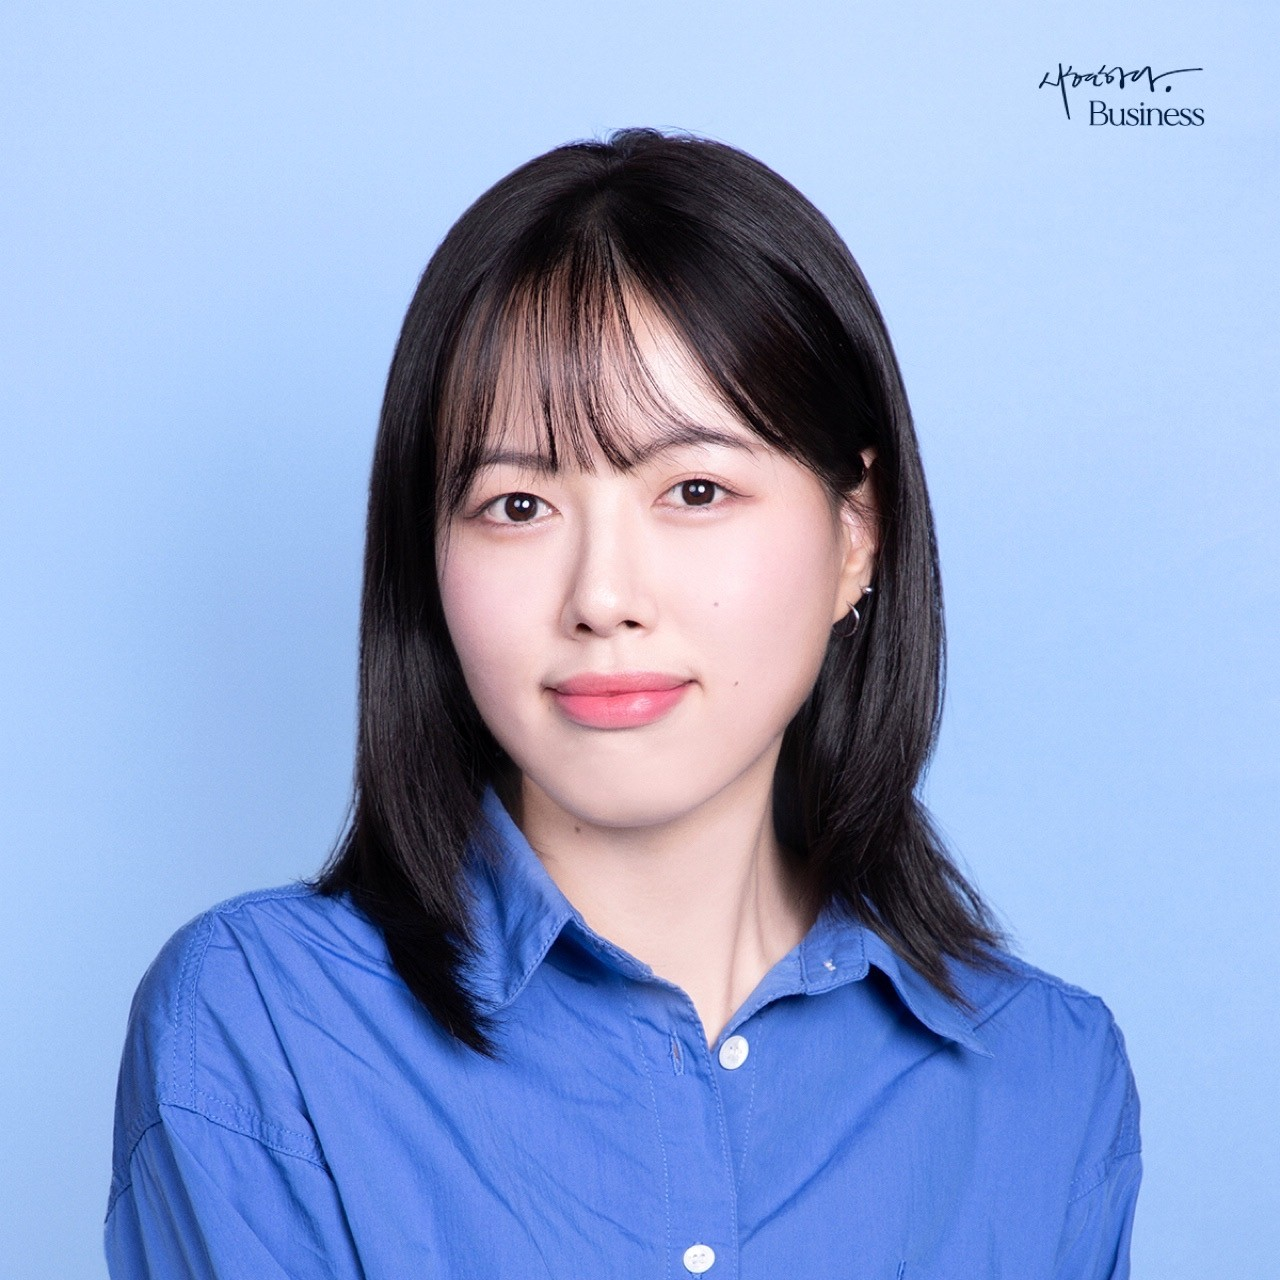
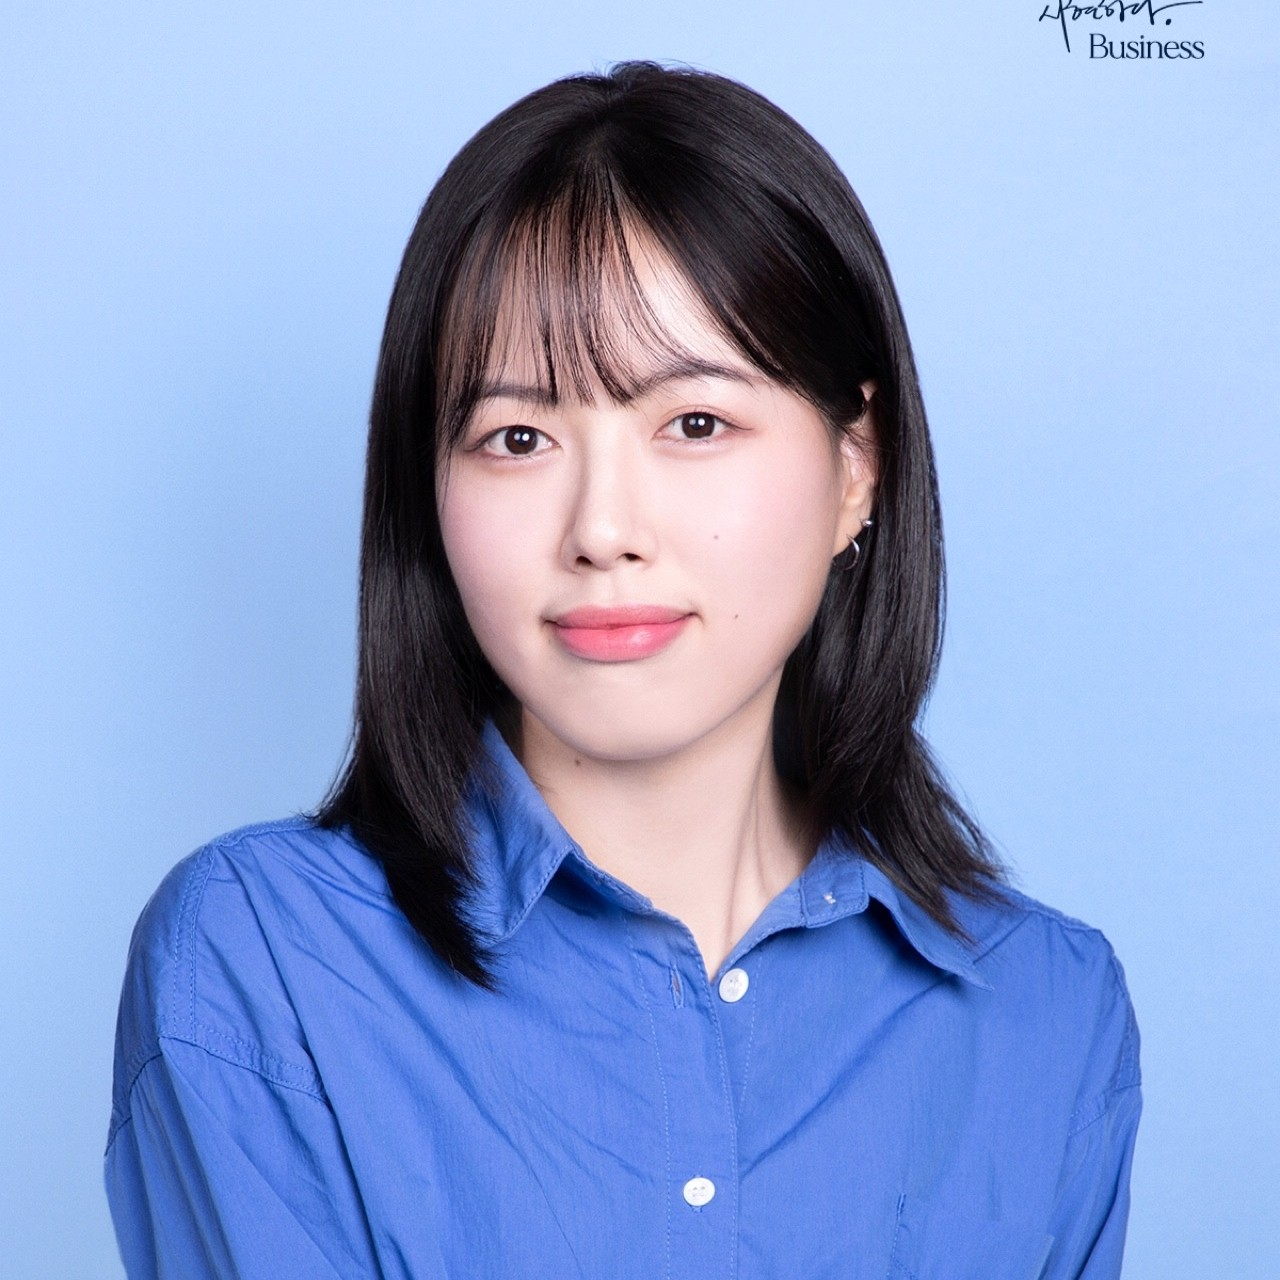
프로필 이미지 변경

Changed region(s): [[0.0625, 0.0312, 0.9062, 1.0], [0.8125, 0.0, 0.9375, 0.0938], [0.5312, 0.9062, 0.625, 1.0]]

diff --git a/src/components/Information/index.tsx b/src/components/Information/index.tsx
@@ -18,13 +18,13 @@ const Information = ({ information }: Pick<DataProps, "information">) => {
           />
         </div>
         <div className="flex flex-col gap-2">
-          <h1 className="leading-[1.15]">
+          <h2 className="leading-[1.15]">
             {/* 포지션에 맞게 문구를 수정해주세요. 혹은, 본인이 원하는 대로 문구를 바꿔주세요. */}
             안녕하세요,
             <br /> 프론트엔드 개발자{" "}
             <span className="text-PRIMARY font-semibold">{information.name}</span>
             입니다.
-          </h1>
+          </h2>
           <div className="flex gap-1">
             {information.contact.map((contact) => (
               <ContactItem

diff --git a/src/pages/index.tsx b/src/pages/index.tsx
@@ -33,9 +33,9 @@ const Home: NextPage<DataProps> = ({
         <Information information={information} />
         <Skills />
         <Certificate certificate={certificate} />
-        <Award award={award} />
         <Education education={education} />
         <Activity activity={activity} />
+        <Award award={award} />
         <Project project={project} />
       </Layout>
       <Footer contact={information.contact} name={information.name} />

diff --git a/public/markdown/information/introduce.md b/public/markdown/information/introduce.md
@@ -1,3 +1,3 @@
-- **사용자**에게 더 나은 경험을 제공하는 UX/UI에 관심이 많습니다.
+- **서비스에 애정**을 가지고 **끊임없이 성장**할 수 있는 일을 하고자 개발자를 희망하게 되었습니다.
 - 팀원들과 잘 **소통**하며, 맡은 일은 끝까지 **책임감** 있게 해내려고 노력합니다.
 - **좋은 코드를 작성**하면서도 제품이 주는 가치를 놓치지 않는 개발자가 되고 싶습니다.
